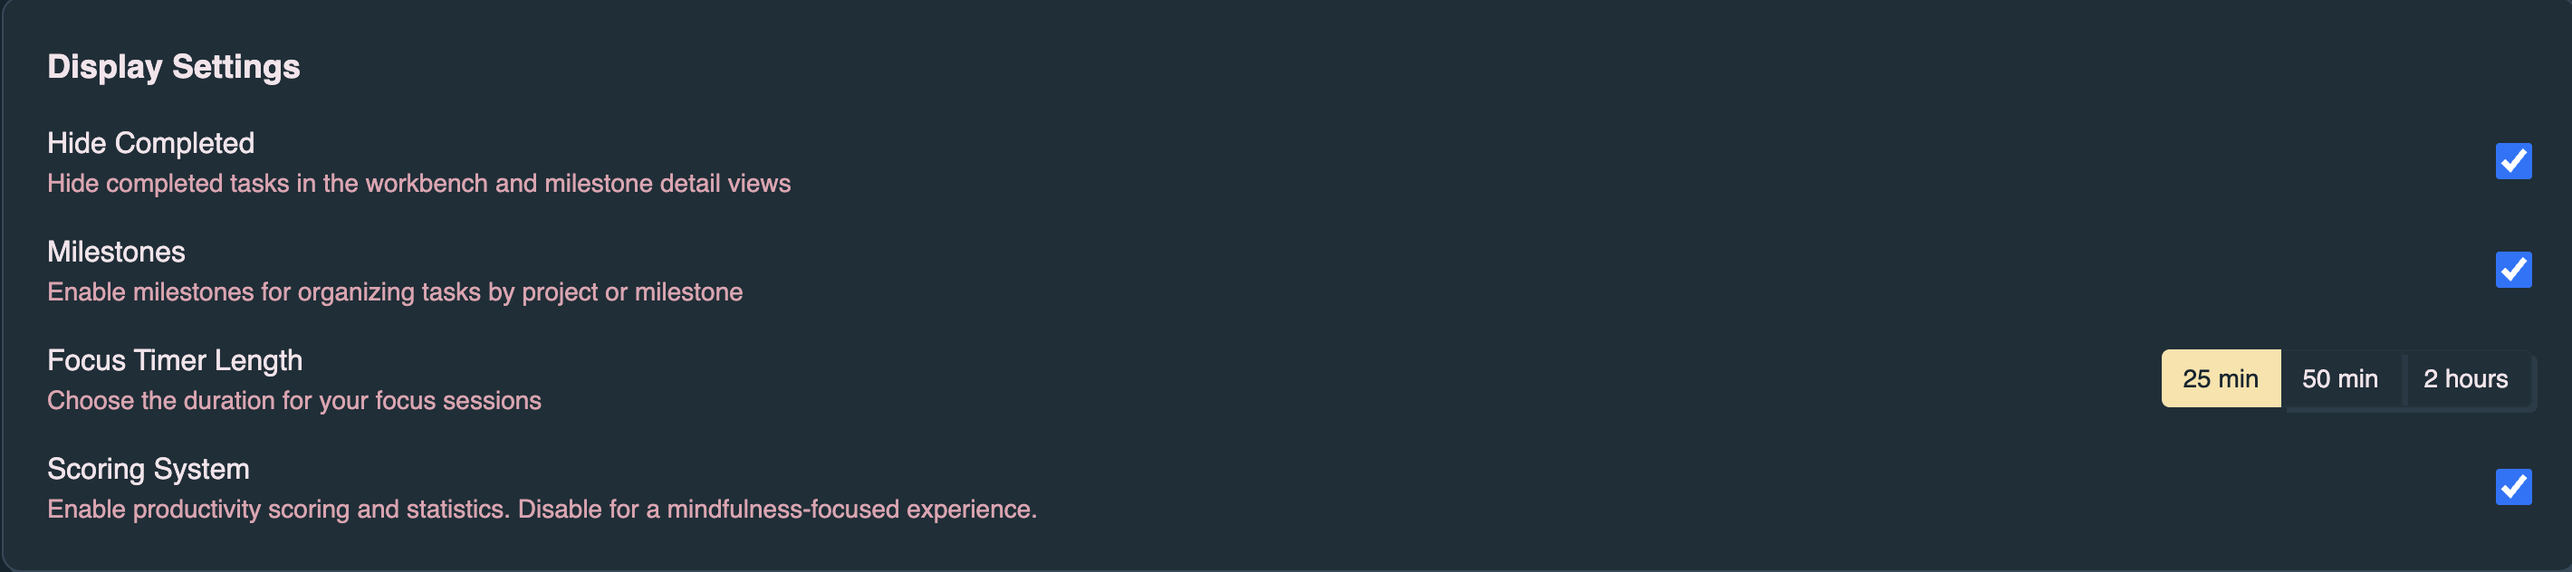
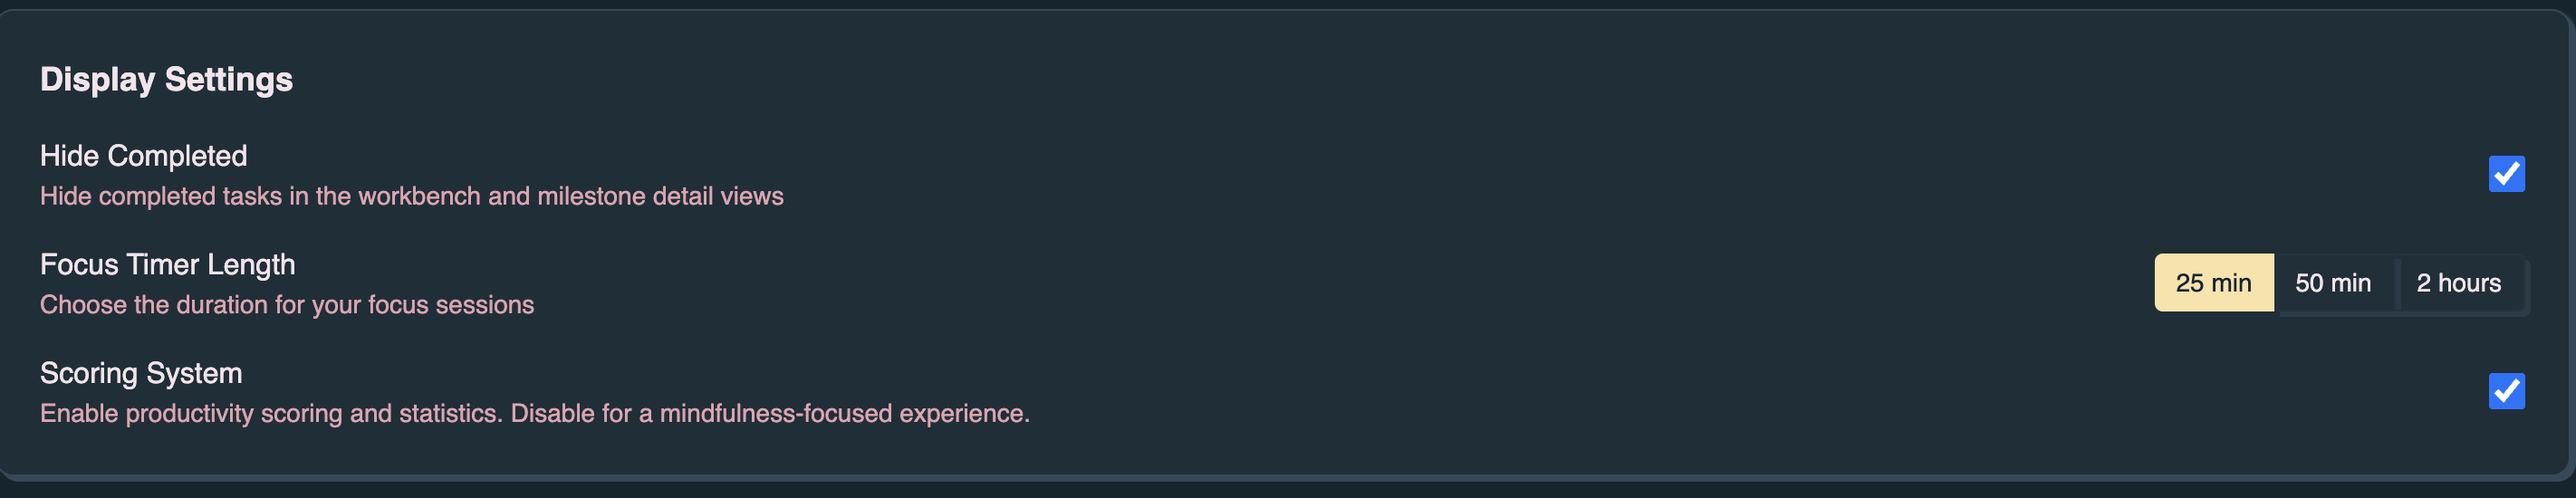
update account page info and screenshots

diff --git a/src/content/docs/denoise/device-runners.md b/src/content/docs/denoise/device-runners.md
@@ -30,7 +30,7 @@ dn kickstart --denoise-task ~/.dn/tasks/<id>.json --publish none
 
 Runner limits: **1** active device on Free, **10** on Denoise Pro (including
 org-seat Pro). Pair from The Void **Devices** flow or denoise
-**Settings > Runners**.
+**Profile** → **Runners**.
 
 ## Pair and prepare a device
 
@@ -38,8 +38,8 @@ The device needs `dn`, outbound HTTPS, a GitHub checkout (for repository
 kickstart), and a supported agent harness. Run the service as your normal login
 user.
 
-1. Open **Settings > Runners** in denoise (or **Devices** in The Void) and
-   create a pairing code.
+1. In denoise, open **Profile** → **Runners** and click **Pair a device**. In
+   The Void, open **Devices**. Either flow creates a pairing code.
 2. Run:
 
    ```bash
@@ -68,6 +68,13 @@ The UI distinguishes paired, online, and repository-ready devices. `--install`
 creates `~/Library/LaunchAgents/cloud.denoise.runner.plist` on macOS or
 `~/.config/systemd/user/denoise-runner.service` on Linux.
 
+![Runners panel in Profile with a paired device, preferred agent, and recent jobs](../../../assets/screenshots/account-runners-panel.png)
+
+On the same panel, **View runner history** opens recent local and cloud runs,
+their outcomes, and recommended next steps.
+
+![Runner history on the Profile Runners panel](../../../assets/screenshots/account-runners-history.png)
+
 ## Run kickstart
 
 Select the named device in the kickstart runtime picker. A busy device claims
@@ -89,6 +96,55 @@ dn runner kickstart 213 --publish pr --json
 ```
 
 The issue must belong to an explicitly registered repository.
+
+## Agent preference
+
+In **Settings → Runners**, each paired device has a **Preferred agent** control
+(OpenCode, Cursor, Claude Code, Codex, or GitHub Copilot when that CLI is
+installed on the device). Denoise stamps that preference on queued jobs.
+
+The device still decides which agent actually runs:
+
+1. Local selection wins: `DN_AGENT` / `*_ENABLED`, then `defaults.agent` in
+   `~/.dn/config.json` (or a `repos[owner/repo]` override), then project
+   `dn.json`
+2. Else Denoise's stamped preference (or the first advertised harness)
+3. Else OpenCode
+
+If the Runners UI shows that a local config or environment agent will override
+your preference, edit or remove that local default so the UI control takes
+effect. Example user config:
+
+```json
+{
+  "schema_version": "2.0",
+  "defaults": {
+    "agent": "cursor"
+  }
+}
+```
+
+Clearing `defaults.agent` (or deleting `~/.dn/config.json` when you do not need
+other defaults) lets the Denoise preference apply. Heartbeats re-probe
+readiness, so you do not need to restart the runner after a config change for
+the UI message to update—though a running job already claimed keeps its
+resolved agent.
+
+Agent credentials stay on the device. Denoise never receives API keys. If the
+UI reports a harness is installed but not authenticated, sign in with that
+CLI, then wait for the next heartbeat:
+
+| Agent | Guide |
+| ----- | ----- |
+| Cursor | [Local authentication](/cookbooks/cursor/#local-authentication) |
+| Claude Code | [Local authentication](/cookbooks/claude-code/#local-authentication) |
+| Codex | [Local authentication](/cookbooks/codex/#local-authentication) |
+| OpenCode | [Local authentication](/cookbooks/opencode/#local-authentication) |
+| GitHub Copilot | [Local authentication](/cookbooks/github-copilot/#local-authentication) |
+
+`dn runner doctor --json` includes the same `agent_readiness` block the UI
+uses (config present, local agent source, and per-harness install/auth
+booleans).
 
 ## Operate and automate
 
@@ -177,7 +233,8 @@ minutes, and one hosted run avoided. It does not estimate dollar savings.
 ## Troubleshoot
 
 Run `dn runner doctor`; it checks credential expiry, protocol support, installed
-harnesses, and repository remotes. Reconnect after an expired credential.
+harnesses, repository remotes, and (in JSON) `agent_readiness` for local agent
+overrides and harness authentication. Reconnect after an expired credential.
 Upgrade `dn` when the server reports an unsupported protocol version. Register
 the correct checkout when the remote does not match.
 

diff --git a/src/content/docs/denoise/features.md b/src/content/docs/denoise/features.md
@@ -96,10 +96,12 @@ hours).
 Milestones help you organize tasks into groups or projects:
 
 1. On the **Roadmap**, click **New milestone**.
-2. Enter a name and optional description, then click **Create**.
+2. Enter a name, choose a **Kickstart publish default** (**Pull request** or
+   **Direct to trunk**), and add an optional description and due date. Then
+   click **Create**.
 3. Open the milestone from the roadmap list to add and manage tasks.
 
-![Create Milestone dialog](../../../assets/screenshots/create-milestone.png)
+![Create Milestone dialog with name, kickstart publish default, description, and due date](../../../assets/screenshots/create-milestone.png)
 
 ![Milestone card on the Roadmap with GitHub link and progress](../../../assets/screenshots/roadmap-milestone-list.png)
 
@@ -146,14 +148,21 @@ long-term cloud todo store for free tasks. There are no milestones in The Void.
 See the dedicated page for pairing, Free vs Pro distinctions, and ticketless
 kickstart.
 
-## Usage metrics (opt-in)
+## Profile: usage, runner history, and help
 
-Denoise can collect anonymous usage metrics, such as upgrade clicks and
-milestone/task counts, to help improve the product. Metrics are opt-in only. In
-**Profile**, enable **Share anonymous usage data to help us improve the
-product**.
+On **Profile** (`/profile`), these panels sit together:
 
-![Usage data opt-in in Profile](../../../assets/screenshots/account-usage-data-and-help.png)
+- **Usage data** — Enable **Share anonymous first-party usage counters to help
+  us improve the product**. Counts include events such as upgrade clicks and
+  milestone and task totals. When enabled, they are stored in the same KV store
+  as the rest of the app and included in the existing daily B2 backup.
+- **Runner history detail** — Enable **Include redacted agent output** to store
+  redacted agent output with future runs, so runner history can show what the
+  agent was doing. Secrets are redacted before upload. Task and repository
+  content may still appear.
+- **Help** — **View tour** opens the guided tour for your current screen.
+  **Reset onboarding** makes that tour auto-open again on the next load. The
+  same card shows the current build and **Copy full SHA**. The header **Help**
+  button opens the same tour.
 
-When enabled, counts are stored in the same KV store as the rest of the app and
-included in the existing daily B2 backup.
+![Usage data, runner history detail, and Help on Profile](../../../assets/screenshots/account-usage-data-help.png)

diff --git a/src/content/docs/denoise/authentication.md b/src/content/docs/denoise/authentication.md
@@ -29,12 +29,17 @@ is deployed. You choose which repositories and organizations denoise can access.
 
 After sign-in, manage access from **Profile**:
 
-| Action                  | When to use                                                                                                |
-| ----------------------- | ---------------------------------------------------------------------------------------------------------- |
-| **Switch Accounts**     | Sign in with a different GitHub account (OAuth-only flow).                                                 |
-| **Update repos & orgs** | Change which repositories and organizations denoise can use for milestones, issues, and workflow dispatch. |
+| Action                  | When to use                                                                                                    |
+| ----------------------- | -------------------------------------------------------------------------------------------------------------- |
+| **Switch Accounts**     | Use a different GitHub account.                                                                                |
+| **Update repos & orgs** | Open GitHub to choose which repos and orgs denoise can access for milestones, issues, and workflow dispatch. |
 
-![GitHub account and repository access in Profile](../../../assets/screenshots/account-github-settings.png)
+![GitHub account access and repo setup checklist in Profile](../../../assets/screenshots/account-github-settings.png)
+
+When GitHub is connected, the same card includes a **Repo setup checklist for
+dn actions**: pair a runner or install workflows from a linked milestone, add
+the Actions secret for that agent when you use GitHub Actions, then kickstart
+once a runner shows Ready.
 
 You can also review installations at
 [github.com/settings/installations](https://github.com/settings/installations).
@@ -74,10 +79,6 @@ When you switch from Offline to Online, a confirmation asks: “Do you want to
 sync your todos across devices?” If you confirm, the app tries to open a
 WebSocket to the server. Whether it reaches **Online** depends on authentication
 and what you have selected.
-
-Connection mode can also be managed in **Profile** → **Data Settings**.
-
-![Connection mode in Profile Data Settings](../../../assets/screenshots/account-data-settings.png)
 
 ## How authentication and the sync badge interact
 

diff --git a/src/content/docs/cookbooks/github-copilot.md b/src/content/docs/cookbooks/github-copilot.md
@@ -6,6 +6,21 @@ description: Install dn as a portable Copilot skill, then complete a GitHub issu
 This guide installs the portable `dn` skill and uses GitHub Copilot CLI as the
 interface for an end-to-end `kickstart` run.
 
+## Local authentication
+
+For [device runners](/denoise/device-runners/#agent-preference) and interactive
+local use, install Copilot CLI and sign in on the machine that runs kickstart:
+
+```bash
+npm install -g @github/copilot
+copilot
+# run /login if prompted
+```
+
+Copilot may reuse an existing GitHub CLI login (`gh auth login`). See
+[Installing GitHub Copilot CLI](https://docs.github.com/en/copilot/how-tos/copilot-cli/set-up-copilot-cli/install-copilot-cli)
+for other installation methods.
+
 ## 1. Install and sign in to Copilot CLI
 
 Copilot CLI requires an active GitHub Copilot plan. Install it with npm:

diff --git a/src/content/docs/cookbooks/opencode.md b/src/content/docs/cookbooks/opencode.md
@@ -346,6 +346,18 @@ OpenCode also lists Deep Infra as a built-in provider (`/connect` in the TUI).
 That path stores credentials interactively for local development. For unattended
 CI, use the explicit `provider` block with `{env:OPENAI_API_KEY}`.
 
+## Local authentication
+
+For [device runners](/denoise/device-runners/#agent-preference) and interactive
+local use, configure a provider in OpenCode (TUI `/connect` or
+`~/.config/opencode/`) or export a provider API key on the machine that runs
+kickstart:
+
+```bash
+export OPENAI_API_KEY="your-api-token"
+# or ANTHROPIC_API_KEY / other provider keys your opencode.json expects
+```
+
 ## Verify locally
 
 Before relying on CI, confirm OpenCode reaches your provider:

diff --git a/src/content/docs/cookbooks/cursor.md b/src/content/docs/cookbooks/cursor.md
@@ -182,6 +182,24 @@ dn workflows validate --json
 Secret validation is best-effort; confirm the secret exists in **Settings →
 Secrets and variables → Actions**.
 
+## Local authentication
+
+For [device runners](/denoise/device-runners/#agent-preference) and interactive
+local use, authenticate the Cursor CLI on the machine that runs kickstart:
+
+```bash
+agent login
+```
+
+Or set an API key and confirm status:
+
+```bash
+export CURSOR_API_KEY="your-cursor-api-key"
+agent status
+```
+
+Unattended CI still uses the `CURSOR_API_KEY` repository secret (below).
+
 ## Step 4 — Verify locally (recommended)
 
 Before relying on CI, confirm the Cursor CLI authenticates from your machine:

diff --git a/src/content/docs/denoise/getting-started.md b/src/content/docs/denoise/getting-started.md
@@ -80,9 +80,11 @@ See [The Void](/denoise/void/) for local sync and ticketless kickstart.
 On the Roadmap:
 
 1. Click **New milestone**.
-2. Enter a name and optional description, then click **Create**.
+2. Enter a name, choose a **Kickstart publish default** (**Pull request** or
+   **Direct to trunk**), and add an optional description and due date. Then
+   click **Create**.
 
-![Create Milestone dialog](../../../assets/screenshots/create-milestone.png)
+![Create Milestone dialog with name, kickstart publish default, description, and due date](../../../assets/screenshots/create-milestone.png)
 
 3. Open the milestone from the roadmap list.
 4. Click **Add task** in the milestone header.

diff --git a/src/content/docs/cookbooks/claude-code.md b/src/content/docs/cookbooks/claude-code.md
@@ -177,6 +177,19 @@ Verify:
 dn workflows validate --json
 ```
 
+## Local authentication
+
+For [device runners](/denoise/device-runners/#agent-preference) and interactive
+local use, sign in with Claude Code on the machine that runs kickstart:
+
+```bash
+claude
+# then run /login inside the CLI if prompted
+```
+
+For headless / API-key use (including CI), set `ANTHROPIC_API_KEY` and
+`CLAUDE_CODE_BARE=1` as in the verify steps below.
+
 ## Verify locally
 
 **Interactive (default).** If you already ran `claude` login on your machine,

diff --git a/src/content/docs/cookbooks/codex.md b/src/content/docs/cookbooks/codex.md
@@ -173,6 +173,19 @@ Verify:
 dn workflows validate --json
 ```
 
+## Local authentication
+
+For [device runners](/denoise/device-runners/#agent-preference) and interactive
+local use, install Codex and sign in (or set `OPENAI_API_KEY`) on the machine
+that runs kickstart:
+
+```bash
+curl -fsSL https://chatgpt.com/codex/install.sh | bash
+codex login
+# or
+export OPENAI_API_KEY="your-openai-api-key"
+```
+
 ## Verify locally
 
 Install and authenticate Codex:

diff --git a/src/content/docs/denoise/tips-troubleshooting.md b/src/content/docs/denoise/tips-troubleshooting.md
@@ -87,7 +87,7 @@ issues, and collaborator visibility predictable.
 - **Missing repository access** — In **Profile**, use **Update repos & orgs** to
   grant denoise access to the linked repository.
 
-  ![Update repos and orgs in Profile](../../../assets/screenshots/account-github-settings.png)
+  ![GitHub account access and Update repos & orgs in Profile](../../../assets/screenshots/account-github-settings.png)
 
 ### Changes aren't syncing to GitHub
 

diff --git a/src/content/docs/denoise/void.md b/src/content/docs/denoise/void.md
@@ -44,8 +44,8 @@ Signing in at denoise.cloud without Pro lands on `/subscribe`. The gate offers
 
 ## Pair a device for local sync
 
-1. Open The Void and use the **Devices** flow (or denoise
-   **Settings > Runners**) to create a pairing code.
+1. Open The Void and use the **Devices** flow (or denoise **Profile** →
+   **Runners** → **Pair a device**) to create a pairing code.
 2. On the laptop, run:
 
    ```bash

diff --git a/src/content/docs/denoise/subscription-and-pro.md b/src/content/docs/denoise/subscription-and-pro.md
@@ -56,8 +56,6 @@ for setup steps.
    `/subscribe`).
 3. Under **Plan & billing**, view your current plan or upgrade.
 
-![Profile page with Display Settings; Plan & billing appears above this section](../../../assets/screenshots/account-display-settings.png)
-
 After Stripe Checkout, the app polls until billing status updates (webhooks can
 lag briefly). A success toast confirms when Pro is active.
 
